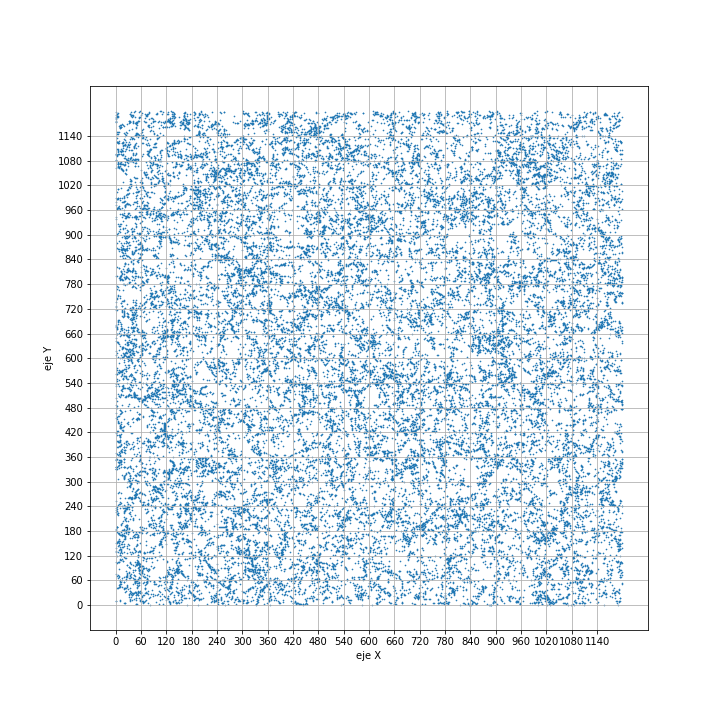
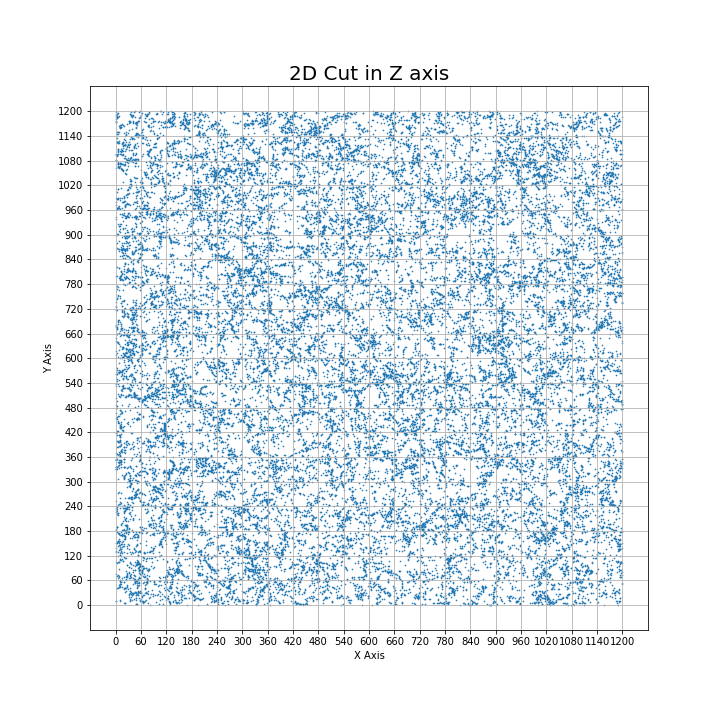
Ploting...

diff --git a/Densidades (test)/densidadLSS.py b/Densidades (test)/densidadLSS.py
@@ -50,9 +50,10 @@ ax.scatter(Xseg,Yseg,Zseg,c='b',s=0.3,depthshade=False)
 segregar_corte_z(1000,10)
 ax.scatter(Xseg,Yseg,Zseg,c='g',s=0.3,depthshade=False)
 #Graphing 2 slides
-ax.set_xlabel("eje X")
-ax.set_ylabel("eje Y")
-ax.set_zlabel("eje Z")
+ax.set_xlabel("X Axis")
+ax.set_ylabel("Y Axis")
+ax.set_zlabel("Z Axis")
+ax.set_title("3D cuts in z Axis", fontsize=20)
 fig.savefig('secton3D.png')
 #============================
 #graph of the cut
@@ -61,8 +62,9 @@ ax2D = figP.gca()
 ax2D.set_xticks(np.arange(0, 1260, 60))
 ax2D.set_yticks(np.arange(0, 1260,60))
 plt.scatter(Xseg,Yseg,s=0.4)
-plt.xlabel("eje X")
-plt.ylabel("eje Y")
+plt.xlabel("X Axis")
+plt.ylabel("Y Axis")
+plt.title("2D Cut in Z axis", fontsize=20)
 plt.grid()
 figP.savefig('secton2D.png')
 #============================
